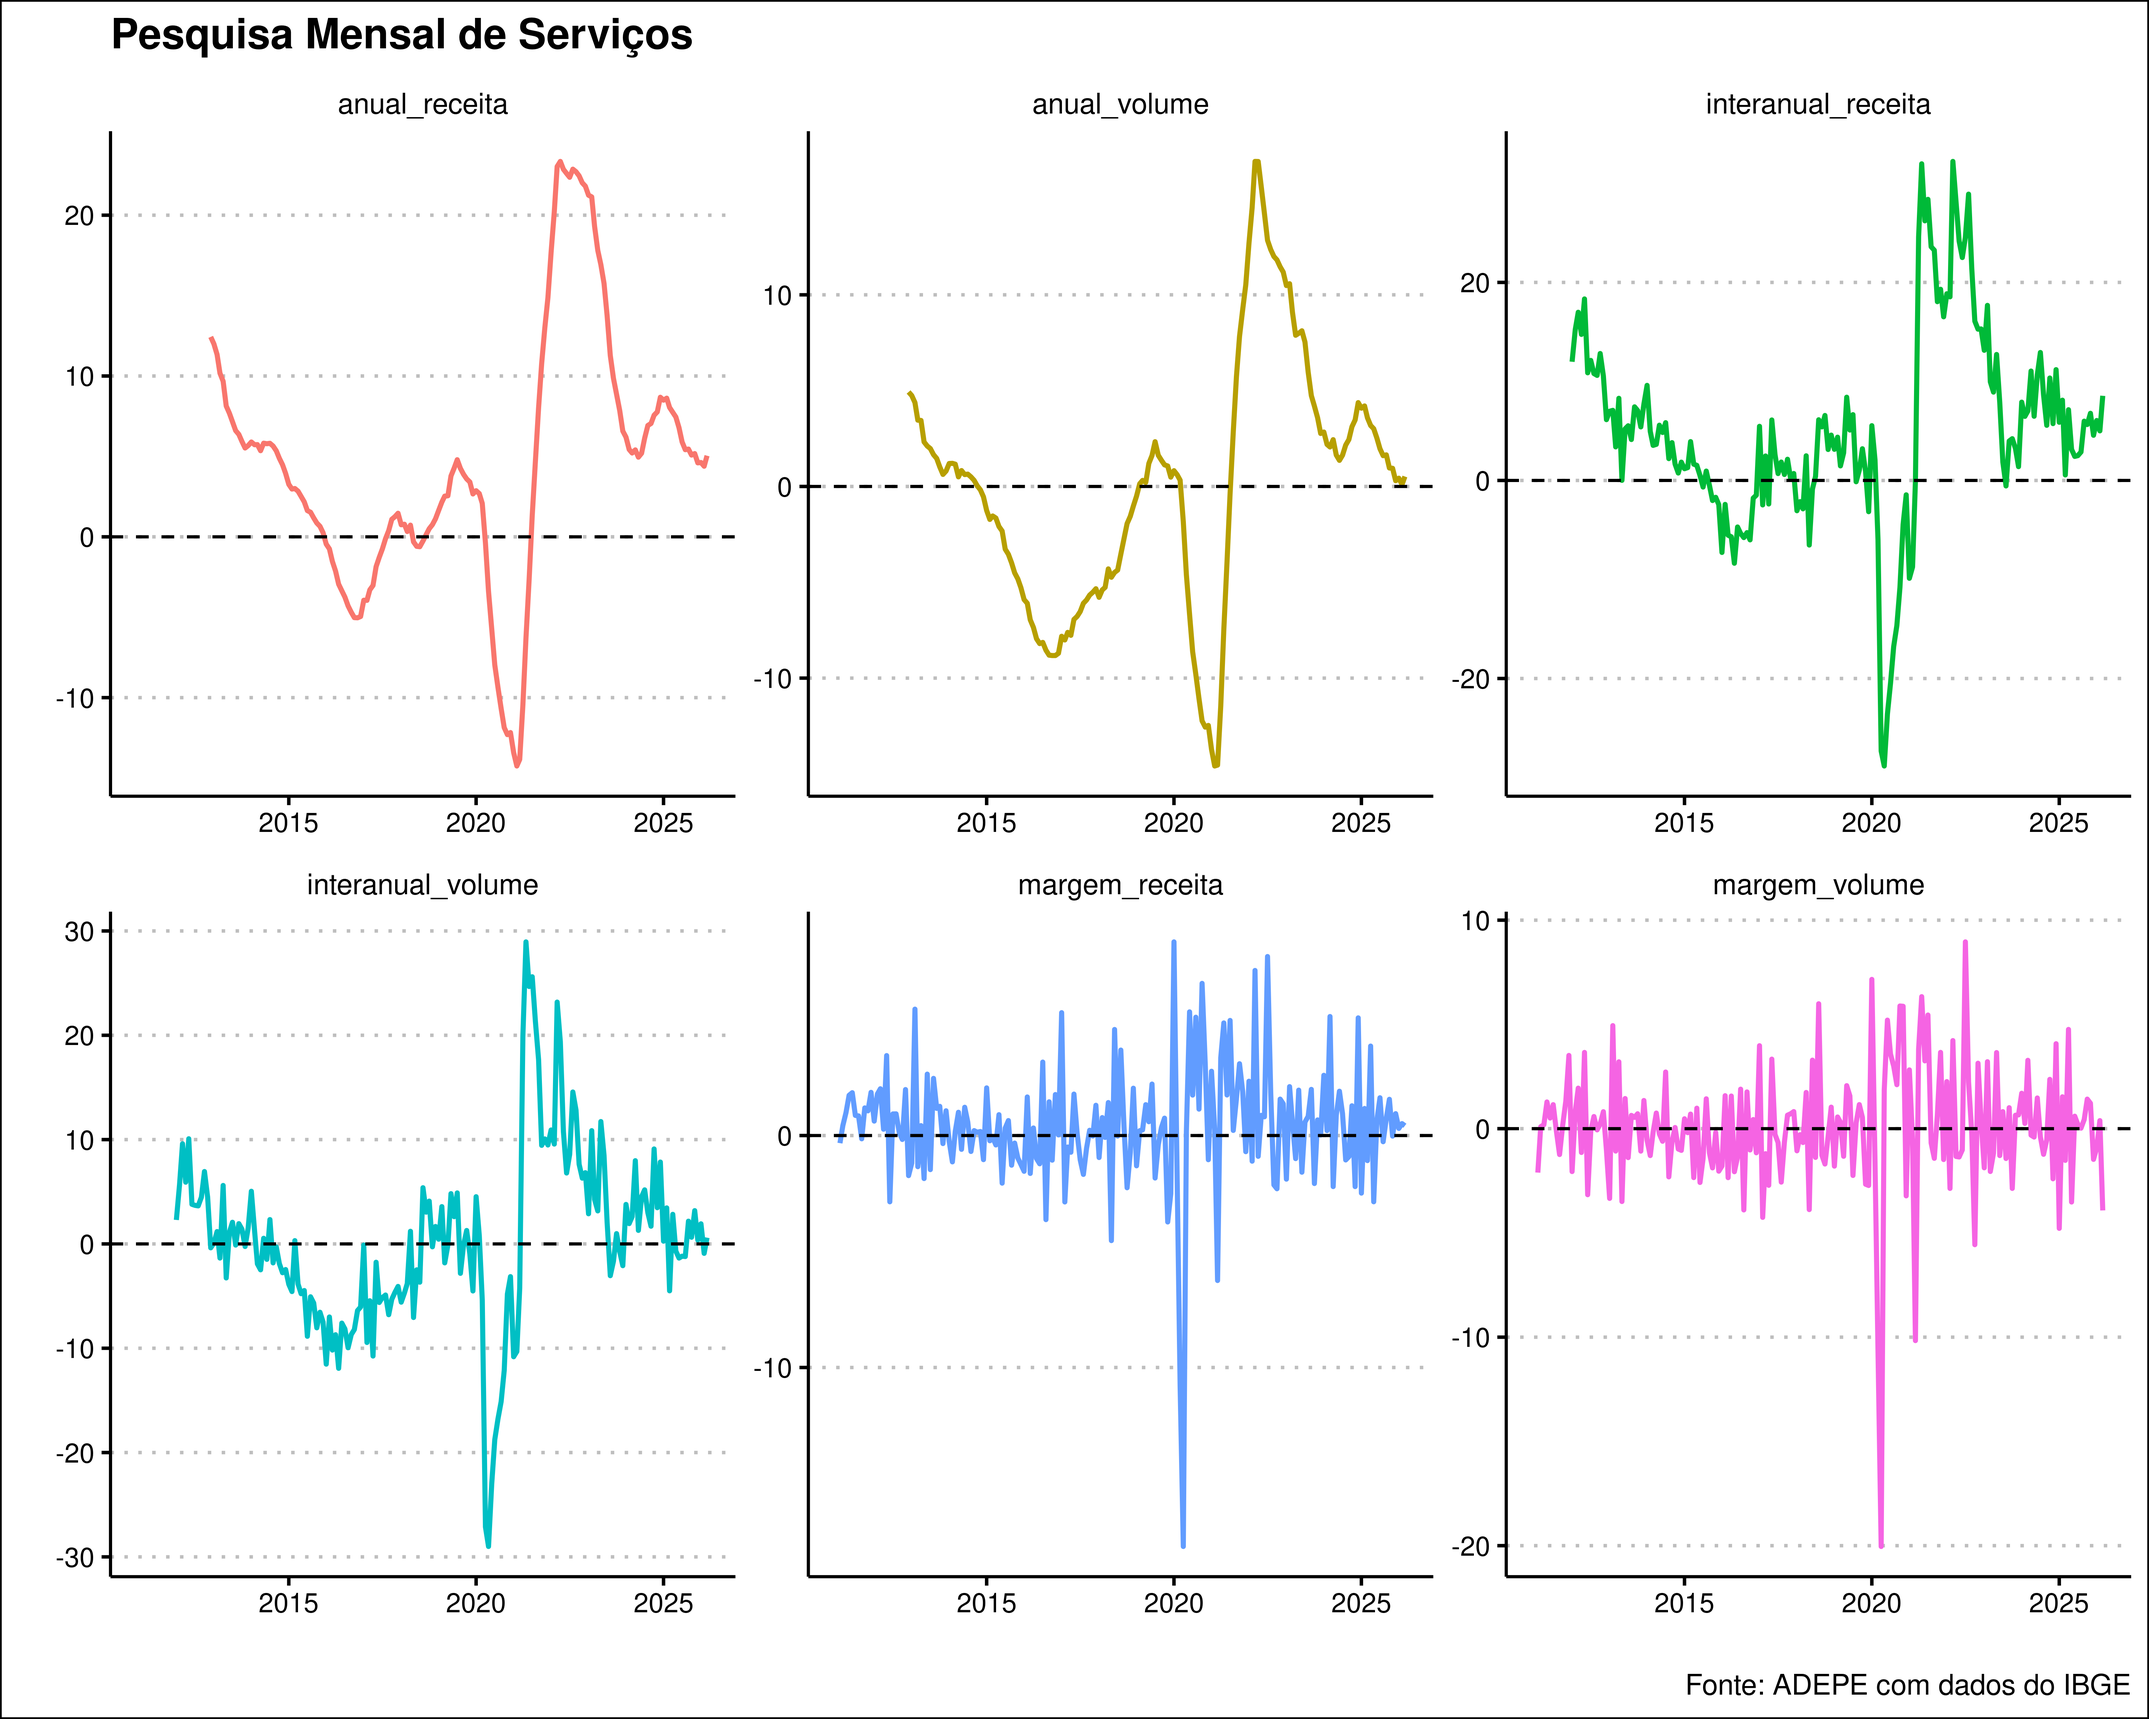
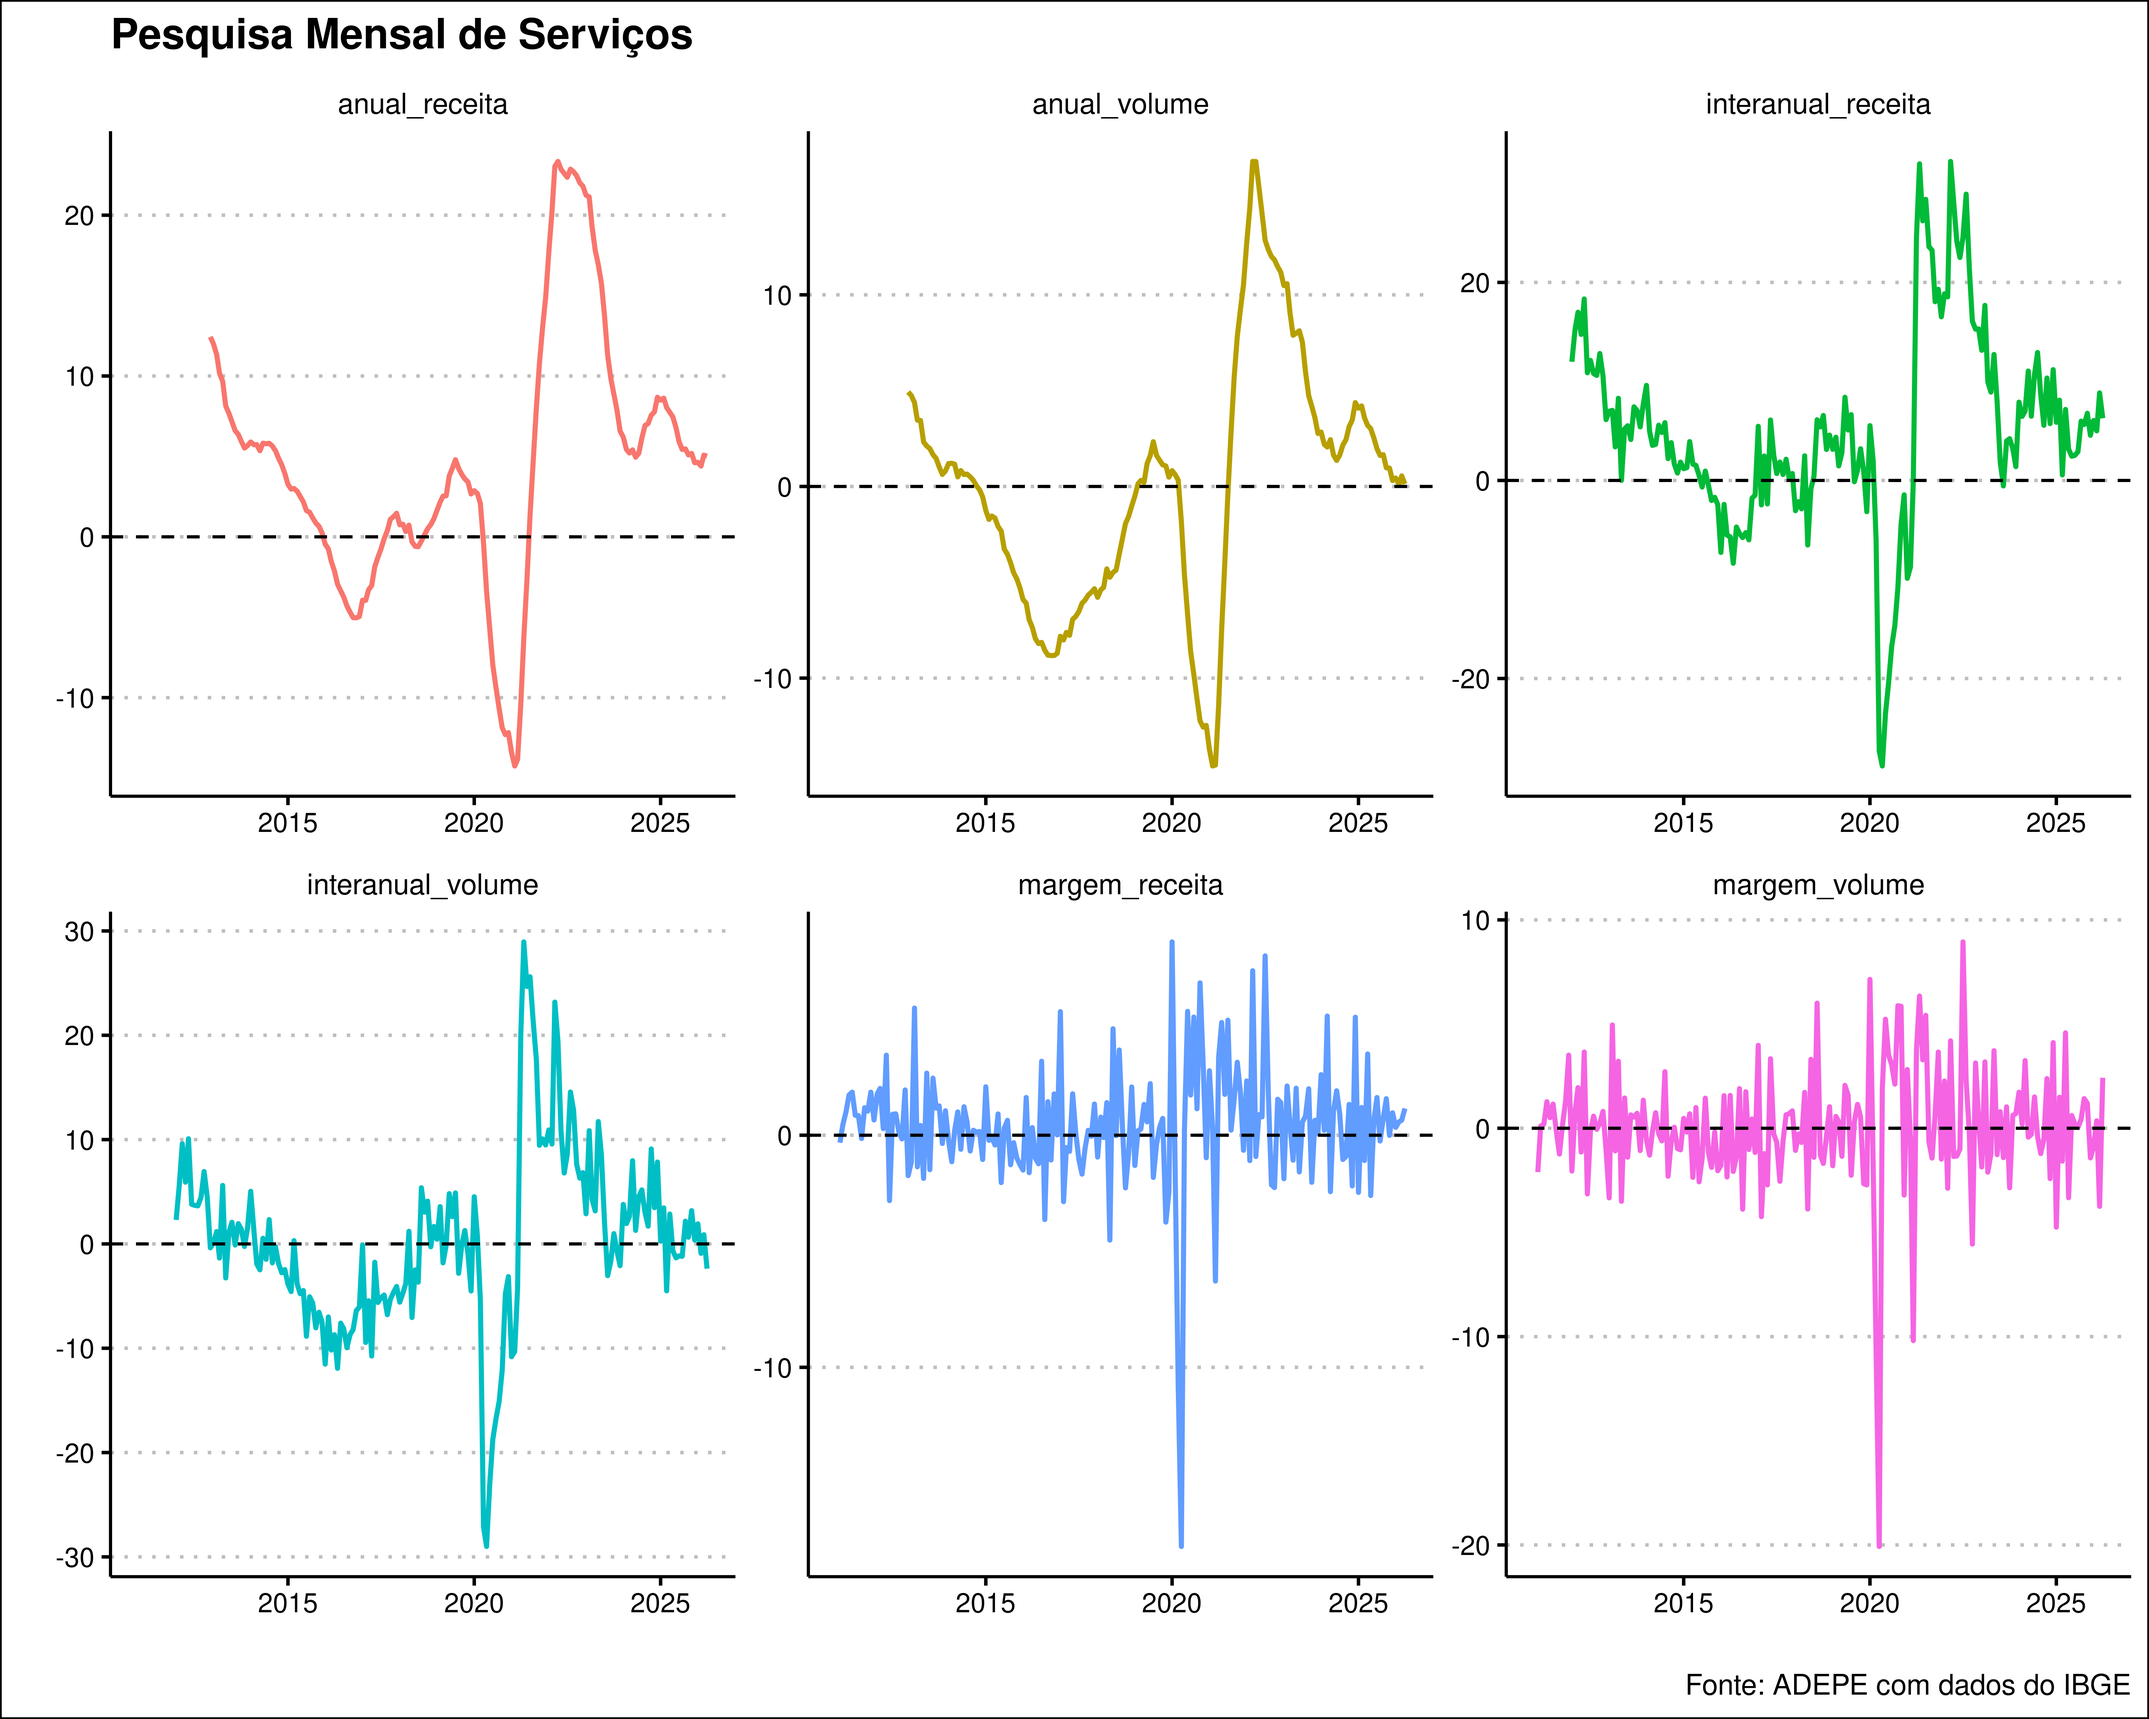
Atualização de relatório automatizada

diff --git a/pms/pms.html b/pms/pms.html
@@ -381,40 +381,40 @@ Núcleo de Dados <br><span style="font-size: 70%;">ADEPE<br><a href="https://git
 </thead>
 <tbody>
 <tr class="odd">
-<td style="text-align: left;">2025-10-01</td>
-<td style="text-align: right;">0.26</td>
-<td style="text-align: right;">7.12</td>
-<td style="text-align: right;">7.51</td>
-</tr>
-<tr class="even">
 <td style="text-align: left;">2025-11-01</td>
-<td style="text-align: right;">0.53</td>
-<td style="text-align: right;">6.82</td>
-<td style="text-align: right;">7.56</td>
+<td style="text-align: right;">0.55</td>
+<td style="text-align: right;">6.84</td>
+<td style="text-align: right;">7.57</td>
 </tr>
-<tr class="odd">
+<tr class="even">
 <td style="text-align: left;">2025-12-01</td>
-<td style="text-align: right;">-0.90</td>
+<td style="text-align: right;">-0.94</td>
 <td style="text-align: right;">7.87</td>
-<td style="text-align: right;">7.66</td>
-</tr>
-<tr class="even">
-<td style="text-align: left;">2026-01-01</td>
-<td style="text-align: right;">2.14</td>
-<td style="text-align: right;">6.91</td>
-<td style="text-align: right;">7.69</td>
+<td style="text-align: right;">7.68</td>
 </tr>
 <tr class="odd">
-<td style="text-align: left;">2026-02-01</td>
-<td style="text-align: right;">1.14</td>
-<td style="text-align: right;">4.88</td>
-<td style="text-align: right;">7.36</td>
+<td style="text-align: left;">2026-01-01</td>
+<td style="text-align: right;">2.24</td>
+<td style="text-align: right;">6.89</td>
+<td style="text-align: right;">7.71</td>
 </tr>
 <tr class="even">
+<td style="text-align: left;">2026-02-01</td>
+<td style="text-align: right;">1.11</td>
+<td style="text-align: right;">4.86</td>
+<td style="text-align: right;">7.38</td>
+</tr>
+<tr class="odd">
 <td style="text-align: left;">2026-03-01</td>
-<td style="text-align: right;">-0.56</td>
-<td style="text-align: right;">8.54</td>
-<td style="text-align: right;">7.45</td>
+<td style="text-align: right;">-0.19</td>
+<td style="text-align: right;">8.84</td>
+<td style="text-align: right;">7.49</td>
+</tr>
+<tr class="even">
+<td style="text-align: left;">2026-04-01</td>
+<td style="text-align: right;">1.45</td>
+<td style="text-align: right;">8.05</td>
+<td style="text-align: right;">7.55</td>
 </tr>
 </tbody>
 </table>
@@ -436,40 +436,40 @@ Núcleo de Dados <br><span style="font-size: 70%;">ADEPE<br><a href="https://git
 </thead>
 <tbody>
 <tr class="odd">
-<td style="text-align: left;">2025-10-01</td>
-<td style="text-align: right;">0.31</td>
-<td style="text-align: right;">2.31</td>
-<td style="text-align: right;">2.81</td>
-</tr>
-<tr class="even">
 <td style="text-align: left;">2025-11-01</td>
-<td style="text-align: right;">-0.14</td>
-<td style="text-align: right;">2.71</td>
-<td style="text-align: right;">2.82</td>
-</tr>
-<tr class="odd">
-<td style="text-align: left;">2025-12-01</td>
-<td style="text-align: right;">-0.29</td>
-<td style="text-align: right;">3.64</td>
-<td style="text-align: right;">2.90</td>
+<td style="text-align: right;">-0.12</td>
+<td style="text-align: right;">2.73</td>
+<td style="text-align: right;">2.84</td>
 </tr>
 <tr class="even">
-<td style="text-align: left;">2026-01-01</td>
-<td style="text-align: right;">-0.07</td>
-<td style="text-align: right;">3.24</td>
-<td style="text-align: right;">3.07</td>
+<td style="text-align: left;">2025-12-01</td>
+<td style="text-align: right;">-0.26</td>
+<td style="text-align: right;">3.64</td>
+<td style="text-align: right;">2.91</td>
 </tr>
 <tr class="odd">
+<td style="text-align: left;">2026-01-01</td>
+<td style="text-align: right;">0.00</td>
+<td style="text-align: right;">3.23</td>
+<td style="text-align: right;">3.08</td>
+</tr>
+<tr class="even">
 <td style="text-align: left;">2026-02-01</td>
 <td style="text-align: right;">-0.01</td>
-<td style="text-align: right;">0.43</td>
-<td style="text-align: right;">2.76</td>
+<td style="text-align: right;">0.41</td>
+<td style="text-align: right;">2.77</td>
+</tr>
+<tr class="odd">
+<td style="text-align: left;">2026-03-01</td>
+<td style="text-align: right;">-1.07</td>
+<td style="text-align: right;">3.32</td>
+<td style="text-align: right;">2.88</td>
 </tr>
 <tr class="even">
-<td style="text-align: left;">2026-03-01</td>
-<td style="text-align: right;">-1.21</td>
-<td style="text-align: right;">3.03</td>
-<td style="text-align: right;">2.85</td>
+<td style="text-align: left;">2026-04-01</td>
+<td style="text-align: right;">1.21</td>
+<td style="text-align: right;">1.85</td>
+<td style="text-align: right;">2.88</td>
 </tr>
 </tbody>
 </table>
@@ -517,40 +517,40 @@ Núcleo de Dados <br><span style="font-size: 70%;">ADEPE<br><a href="https://git
 </thead>
 <tbody>
 <tr class="odd">
-<td style="text-align: left;">2025-10-01</td>
-<td style="text-align: right;">1.56</td>
-<td style="text-align: right;">5.65</td>
+<td style="text-align: left;">2025-11-01</td>
+<td style="text-align: right;">-0.01</td>
+<td style="text-align: right;">6.78</td>
+<td style="text-align: right;">5.19</td>
+</tr>
+<tr class="even">
+<td style="text-align: left;">2025-12-01</td>
+<td style="text-align: right;">0.97</td>
+<td style="text-align: right;">4.56</td>
+<td style="text-align: right;">4.61</td>
+</tr>
+<tr class="odd">
+<td style="text-align: left;">2026-01-01</td>
+<td style="text-align: right;">0.34</td>
+<td style="text-align: right;">6.05</td>
+<td style="text-align: right;">4.63</td>
+</tr>
+<tr class="even">
+<td style="text-align: left;">2026-02-01</td>
+<td style="text-align: right;">0.57</td>
+<td style="text-align: right;">5.01</td>
+<td style="text-align: right;">4.40</td>
+</tr>
+<tr class="odd">
+<td style="text-align: left;">2026-03-01</td>
+<td style="text-align: right;">0.65</td>
+<td style="text-align: right;">8.84</td>
 <td style="text-align: right;">5.08</td>
 </tr>
 <tr class="even">
-<td style="text-align: left;">2025-11-01</td>
-<td style="text-align: right;">-0.02</td>
-<td style="text-align: right;">6.78</td>
-<td style="text-align: right;">5.18</td>
-</tr>
-<tr class="odd">
-<td style="text-align: left;">2025-12-01</td>
-<td style="text-align: right;">0.94</td>
-<td style="text-align: right;">4.56</td>
-<td style="text-align: right;">4.60</td>
-</tr>
-<tr class="even">
-<td style="text-align: left;">2026-01-01</td>
-<td style="text-align: right;">0.31</td>
-<td style="text-align: right;">6.05</td>
-<td style="text-align: right;">4.62</td>
-</tr>
-<tr class="odd">
-<td style="text-align: left;">2026-02-01</td>
-<td style="text-align: right;">0.51</td>
-<td style="text-align: right;">5.01</td>
-<td style="text-align: right;">4.39</td>
-</tr>
-<tr class="even">
-<td style="text-align: left;">2026-03-01</td>
-<td style="text-align: right;">0.42</td>
-<td style="text-align: right;">8.55</td>
-<td style="text-align: right;">5.04</td>
+<td style="text-align: left;">2026-04-01</td>
+<td style="text-align: right;">1.15</td>
+<td style="text-align: right;">6.28</td>
+<td style="text-align: right;">5.02</td>
 </tr>
 </tbody>
 </table>
@@ -572,40 +572,40 @@ Núcleo de Dados <br><span style="font-size: 70%;">ADEPE<br><a href="https://git
 </thead>
 <tbody>
 <tr class="odd">
-<td style="text-align: left;">2025-10-01</td>
-<td style="text-align: right;">1.42</td>
-<td style="text-align: right;">0.64</td>
+<td style="text-align: left;">2025-11-01</td>
+<td style="text-align: right;">1.19</td>
+<td style="text-align: right;">3.19</td>
 <td style="text-align: right;">0.96</td>
 </tr>
 <tr class="even">
-<td style="text-align: left;">2025-11-01</td>
-<td style="text-align: right;">1.22</td>
-<td style="text-align: right;">3.19</td>
-<td style="text-align: right;">0.95</td>
-</tr>
-<tr class="odd">
 <td style="text-align: left;">2025-12-01</td>
-<td style="text-align: right;">-1.47</td>
+<td style="text-align: right;">-1.42</td>
 <td style="text-align: right;">0.37</td>
-<td style="text-align: right;">0.30</td>
-</tr>
-<tr class="even">
-<td style="text-align: left;">2026-01-01</td>
-<td style="text-align: right;">-0.92</td>
-<td style="text-align: right;">1.93</td>
-<td style="text-align: right;">0.43</td>
+<td style="text-align: right;">0.31</td>
 </tr>
 <tr class="odd">
-<td style="text-align: left;">2026-02-01</td>
-<td style="text-align: right;">0.39</td>
-<td style="text-align: right;">-0.90</td>
-<td style="text-align: right;">0.10</td>
+<td style="text-align: left;">2026-01-01</td>
+<td style="text-align: right;">-0.87</td>
+<td style="text-align: right;">1.93</td>
+<td style="text-align: right;">0.44</td>
 </tr>
 <tr class="even">
+<td style="text-align: left;">2026-02-01</td>
+<td style="text-align: right;">0.35</td>
+<td style="text-align: right;">-0.90</td>
+<td style="text-align: right;">0.11</td>
+</tr>
+<tr class="odd">
 <td style="text-align: left;">2026-03-01</td>
-<td style="text-align: right;">-3.92</td>
-<td style="text-align: right;">0.60</td>
-<td style="text-align: right;">0.52</td>
+<td style="text-align: right;">-3.75</td>
+<td style="text-align: right;">0.88</td>
+<td style="text-align: right;">0.55</td>
+</tr>
+<tr class="even">
+<td style="text-align: left;">2026-04-01</td>
+<td style="text-align: right;">2.42</td>
+<td style="text-align: right;">-2.37</td>
+<td style="text-align: right;">0.12</td>
 </tr>
 </tbody>
 </table>
